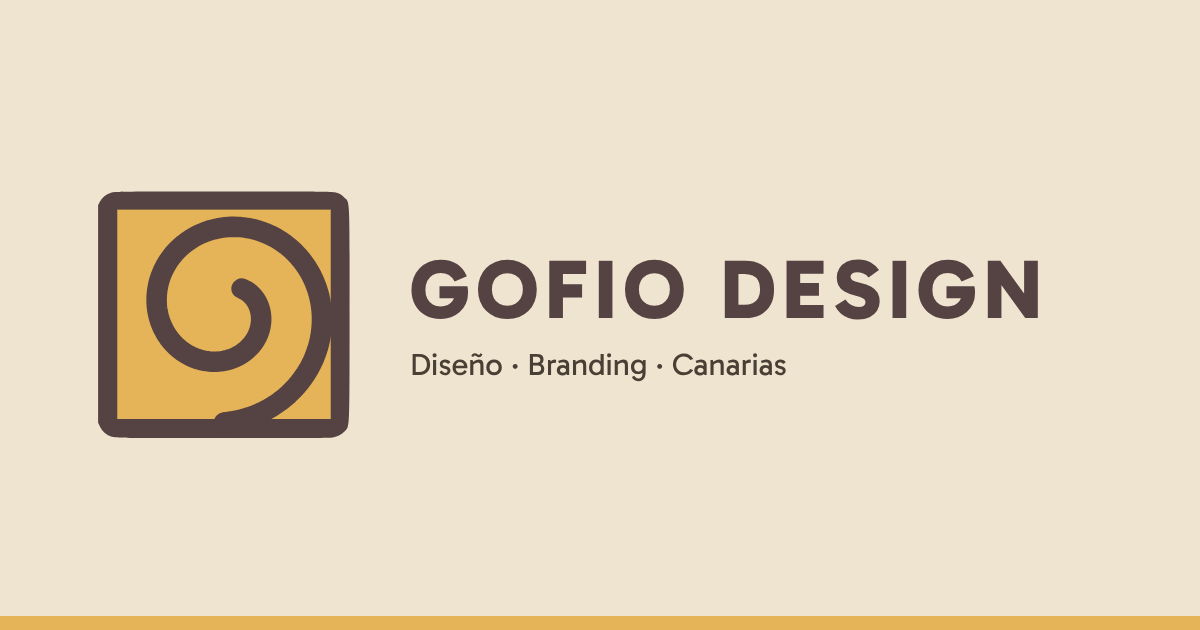
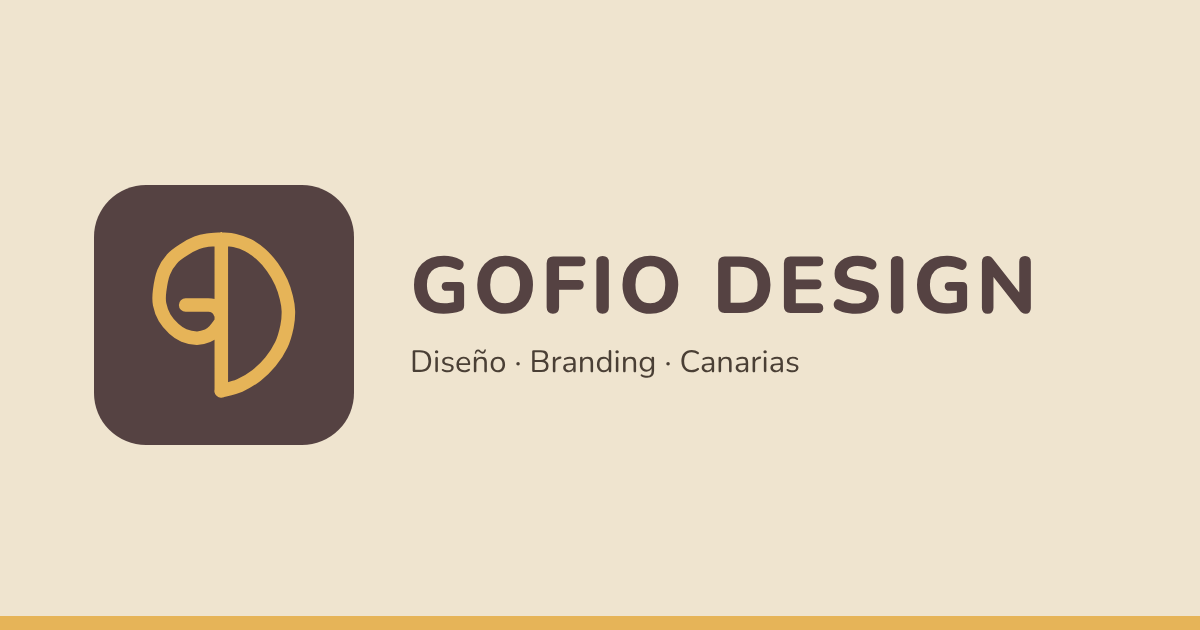
Monograma GD en espiral y tipografía Nunito
- logo.svg: insignia marrón con el monograma GD en ámbar (vectorizado del boceto)
- logo-ambar.svg para el pie; favicon.svg, PNG e ICO desde la insignia
- relieve decorativo con el monograma (gd-relief.svg)
- fuente de la web: Nunito (bordes redondeados como la espiral); og-image regenerada

Claude-Session: https://claude.ai/code/session_01NeU9qfxbNB6KZDSGaHYsHd

diff --git a/style.css b/style.css
@@ -16,7 +16,7 @@
   --line: rgba(85, 66, 66, 0.14);
   --shadow: rgba(85, 66, 66, 0.16);
 
-  --font-brand: "Gabarito", sans-serif;
+  --font-brand: "Nunito", sans-serif;
 }
 body {
   font-family: var(--font-brand);
@@ -188,7 +188,7 @@ footer {
   position: absolute;
   z-index: 0;
   pointer-events: none;
-  background: url("assets/brand/spiral-relief.svg") no-repeat center / contain;
+  background: url("assets/brand/gd-relief.svg") no-repeat center / contain;
   /* Relieve: luz blanca arriba-izquierda, sombra suave abajo-derecha */
   filter: drop-shadow(-1px -1px 0 rgba(255, 255, 255, 0.7))
     drop-shadow(1px 1px 0 rgba(85, 66, 66, 0.08));
@@ -196,10 +196,10 @@ footer {
 }
 
 .layer.social::before {
-  width: 300px;
+  width: 260px;
   height: 300px;
-  right: -70px;
-  top: 50px;
+  right: -60px;
+  top: 40px;
   transform: rotate(-8deg);
 }
 

diff --git a/index.html b/index.html
@@ -24,7 +24,7 @@
     <meta property="og:url" content="https://gofiodesign.eu/index.html" />
     <meta property="og:image" content="https://gofiodesign.eu/assets/brand/og-image.png" />
     <link
-      href="https://fonts.googleapis.com/css2?family=Gabarito:wght@400;600;800&display=swap"
+      href="https://fonts.googleapis.com/css2?family=Nunito:wght@400;600;800&display=swap"
       rel="stylesheet"
     />
     <link
@@ -146,7 +146,7 @@
       </div>
     </main>
     <footer>
-      <img class="footer-mark" src="assets/brand/logo.svg" alt="" width="44" height="44" />
+      <img class="footer-mark" src="assets/brand/logo-ambar.svg" alt="" width="44" height="44" />
       <p>
         &copy; 2005–<span id="current-year">2026</span>
         <strong>Gofio Design</strong> |

diff --git a/proyectos.html b/proyectos.html
@@ -17,7 +17,7 @@
     <meta property="og:url" content="https://gofiodesign.eu/proyectos.html" />
     <meta property="og:image" content="https://gofiodesign.eu/assets/brand/og-image.png" />
     <link
-      href="https://fonts.googleapis.com/css2?family=Gabarito:wght@400;600;800&display=swap"
+      href="https://fonts.googleapis.com/css2?family=Nunito:wght@400;600;800&display=swap"
       rel="stylesheet"
     />
     <link
@@ -155,7 +155,7 @@
     </main>
 
     <footer>
-      <img class="footer-mark" src="assets/brand/logo.svg" alt="" width="44" height="44" />
+      <img class="footer-mark" src="assets/brand/logo-ambar.svg" alt="" width="44" height="44" />
       <p>
         &copy; 2005–<span id="current-year">2026</span>
         <strong>Gofio Design</strong> |

diff --git a/de.html b/de.html
@@ -25,7 +25,7 @@
     <meta property="og:image" content="https://gofiodesign.eu/assets/brand/og-image.png" />
 
     <link
-      href="https://fonts.googleapis.com/css2?family=Gabarito:wght@400;600;800&display=swap"
+      href="https://fonts.googleapis.com/css2?family=Nunito:wght@400;600;800&display=swap"
       rel="stylesheet"
     />
     <link
@@ -147,7 +147,7 @@
       </div>
     </main>
     <footer>
-      <img class="footer-mark" src="assets/brand/logo.svg" alt="" width="44" height="44" />
+      <img class="footer-mark" src="assets/brand/logo-ambar.svg" alt="" width="44" height="44" />
       <p>
         &copy; 2005–<span id="current-year"></span> **Gofio Design** |
         <a href="privacy.html" class="footer-legal">Legal & Privacy</a

diff --git a/en.html b/en.html
@@ -25,7 +25,7 @@
     <meta property="og:image" content="https://gofiodesign.eu/assets/brand/og-image.png" />
 
     <link
-      href="https://fonts.googleapis.com/css2?family=Gabarito:wght@400;600;800&display=swap"
+      href="https://fonts.googleapis.com/css2?family=Nunito:wght@400;600;800&display=swap"
       rel="stylesheet"
     />
     <link
@@ -143,7 +143,7 @@
       </div>
     </main>
     <footer>
-      <img class="footer-mark" src="assets/brand/logo.svg" alt="" width="44" height="44" />
+      <img class="footer-mark" src="assets/brand/logo-ambar.svg" alt="" width="44" height="44" />
       <p>
         &copy; 2005–<span id="current-year"></span> **Gofio Design** |
         <a href="privacy.html" class="footer-legal">Legal & Privacy</a

diff --git a/fr.html b/fr.html
@@ -25,7 +25,7 @@
     <meta property="og:image" content="https://gofiodesign.eu/assets/brand/og-image.png" />
 
     <link
-      href="https://fonts.googleapis.com/css2?family=Gabarito:wght@400;600;800&display=swap"
+      href="https://fonts.googleapis.com/css2?family=Nunito:wght@400;600;800&display=swap"
       rel="stylesheet"
     />
     <link
@@ -151,7 +151,7 @@
       </div>
     </main>
     <footer>
-      <img class="footer-mark" src="assets/brand/logo.svg" alt="" width="44" height="44" />
+      <img class="footer-mark" src="assets/brand/logo-ambar.svg" alt="" width="44" height="44" />
       <p>
         &copy; 2005–<span id="current-year"></span> **Gofio Design** |
         <a href="privacy.html" class="footer-legal">Legal & Privacy</a

diff --git a/privacy.html b/privacy.html
@@ -5,7 +5,7 @@
     <meta name="viewport" content="width=device-width, initial-scale=1.0" />
     <title>Privacy & Legal | Gofio Design</title>
     <link
-      href="https://fonts.googleapis.com/css2?family=Gabarito:wght@400;600&display=swap"
+      href="https://fonts.googleapis.com/css2?family=Nunito:wght@400;600;800&display=swap"
       rel="stylesheet"
     />
     <link rel="stylesheet" href="style.css" />
